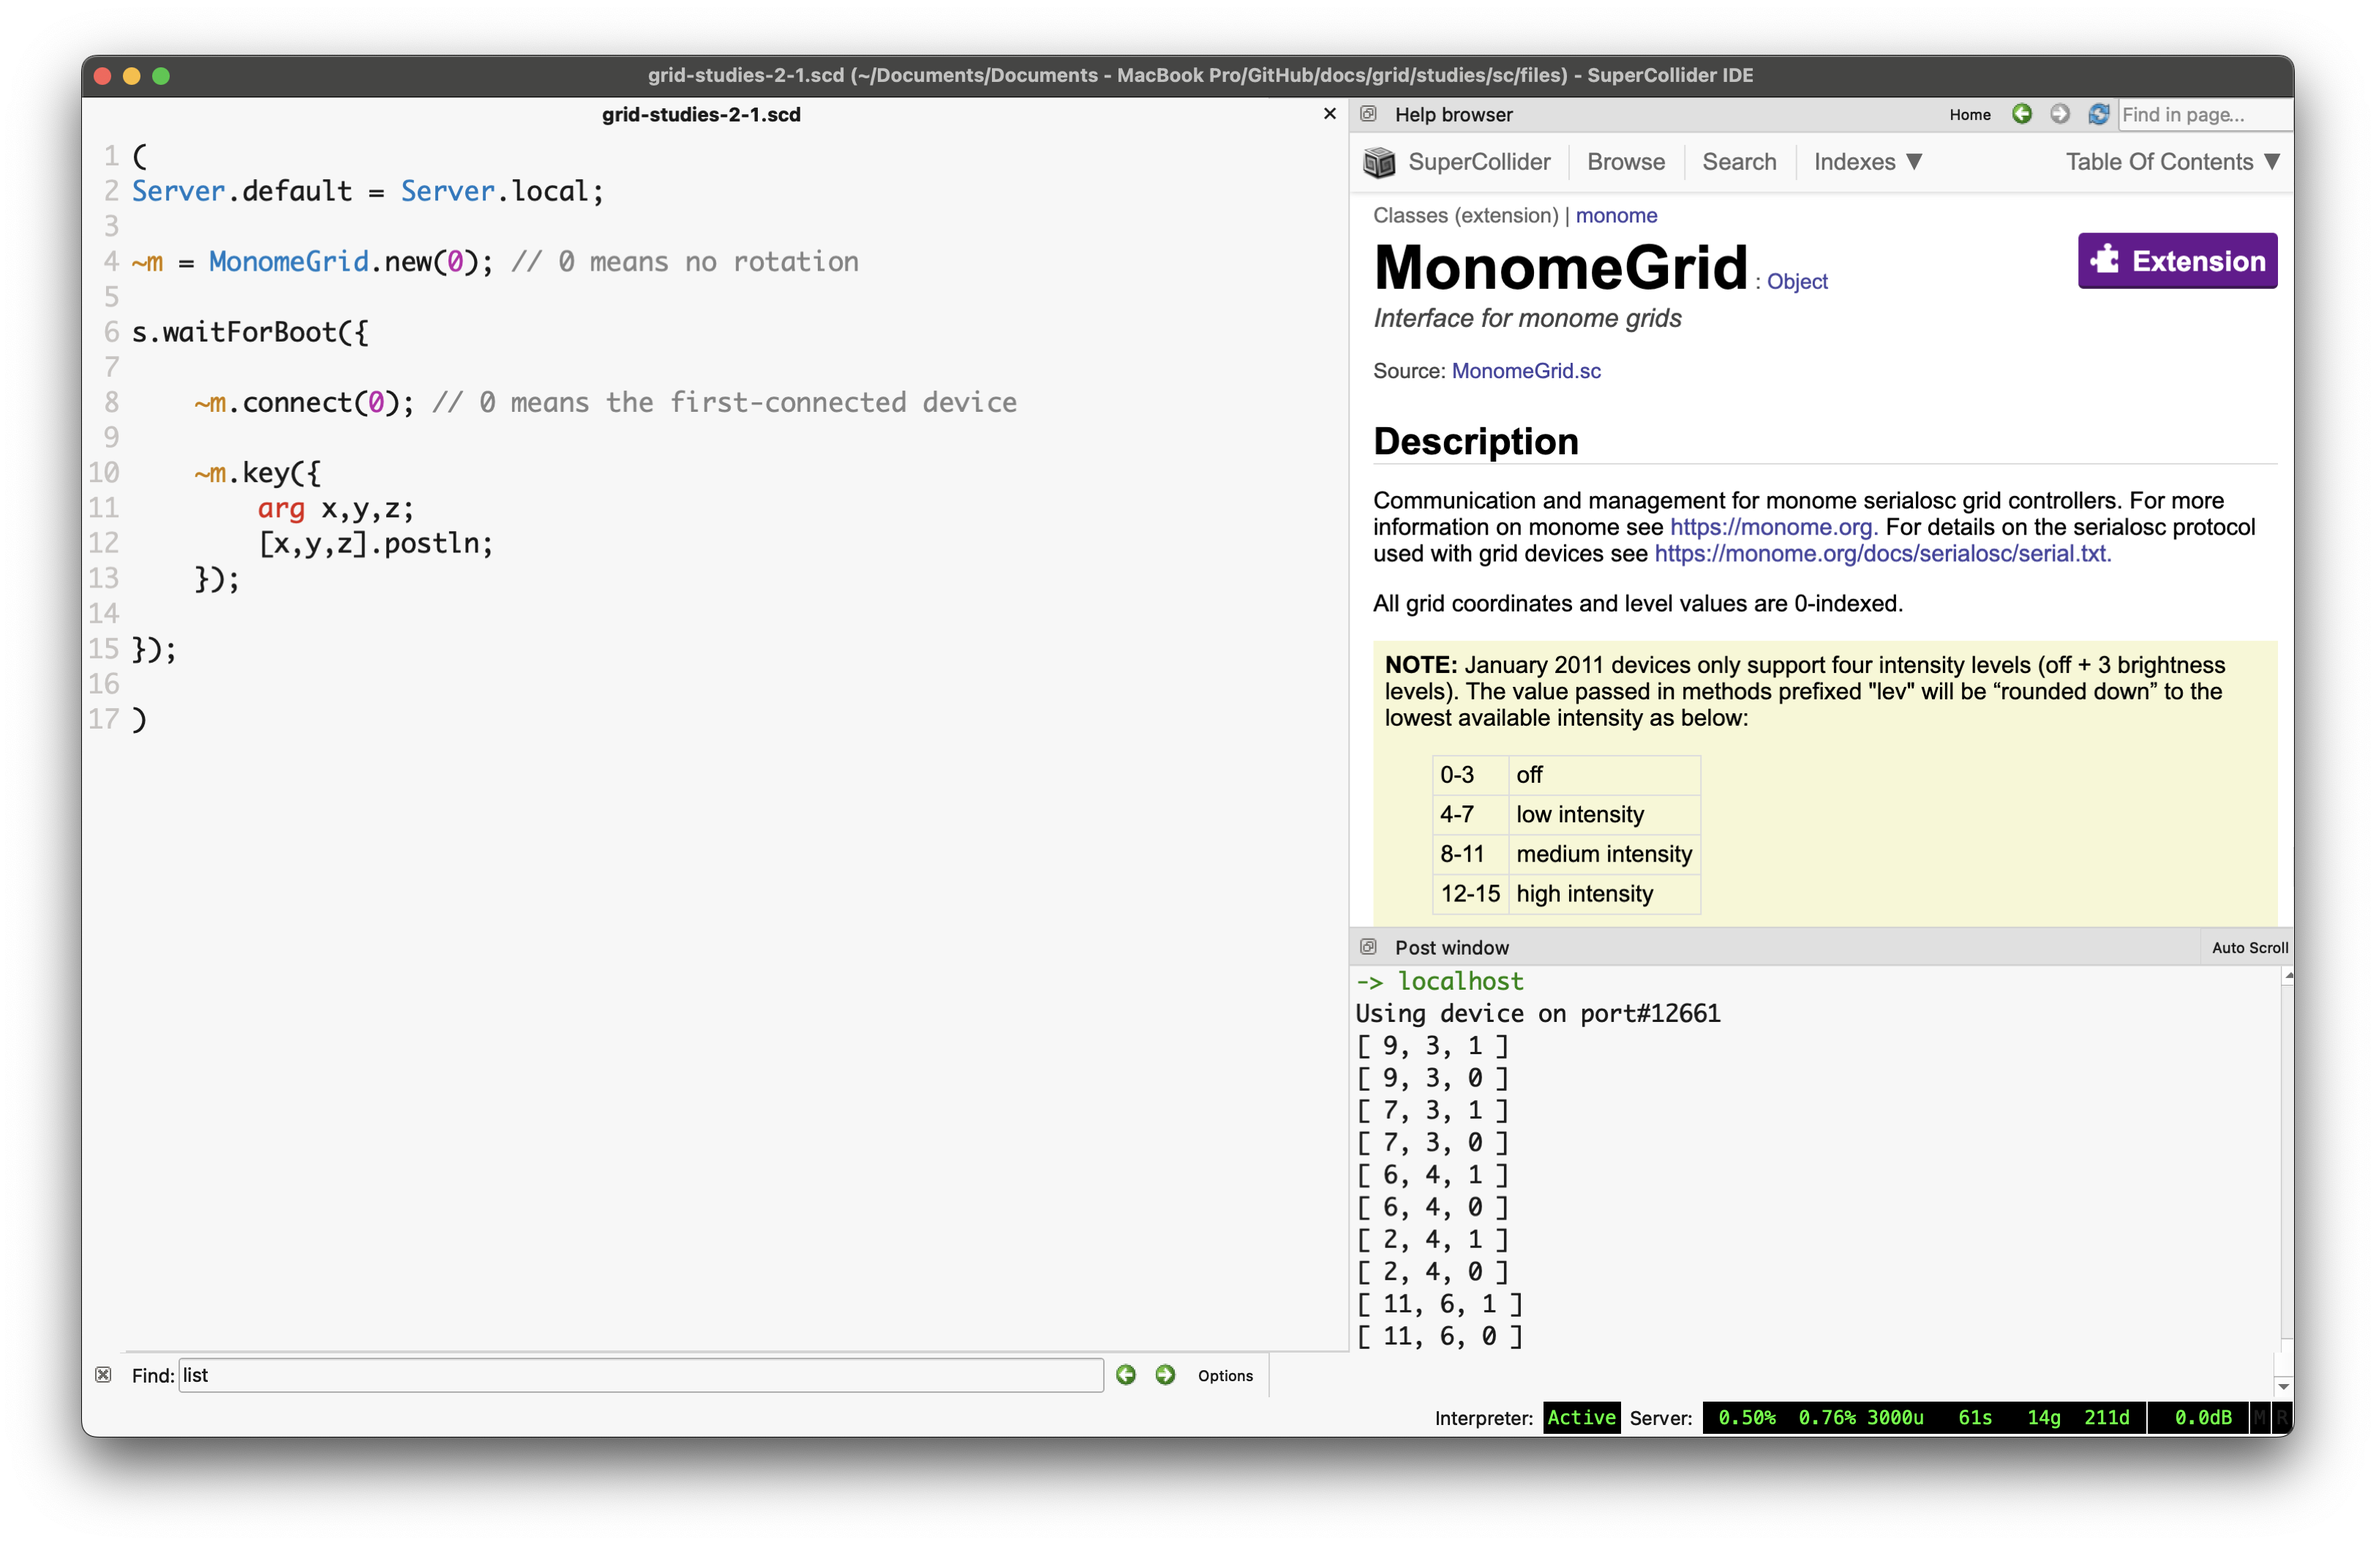
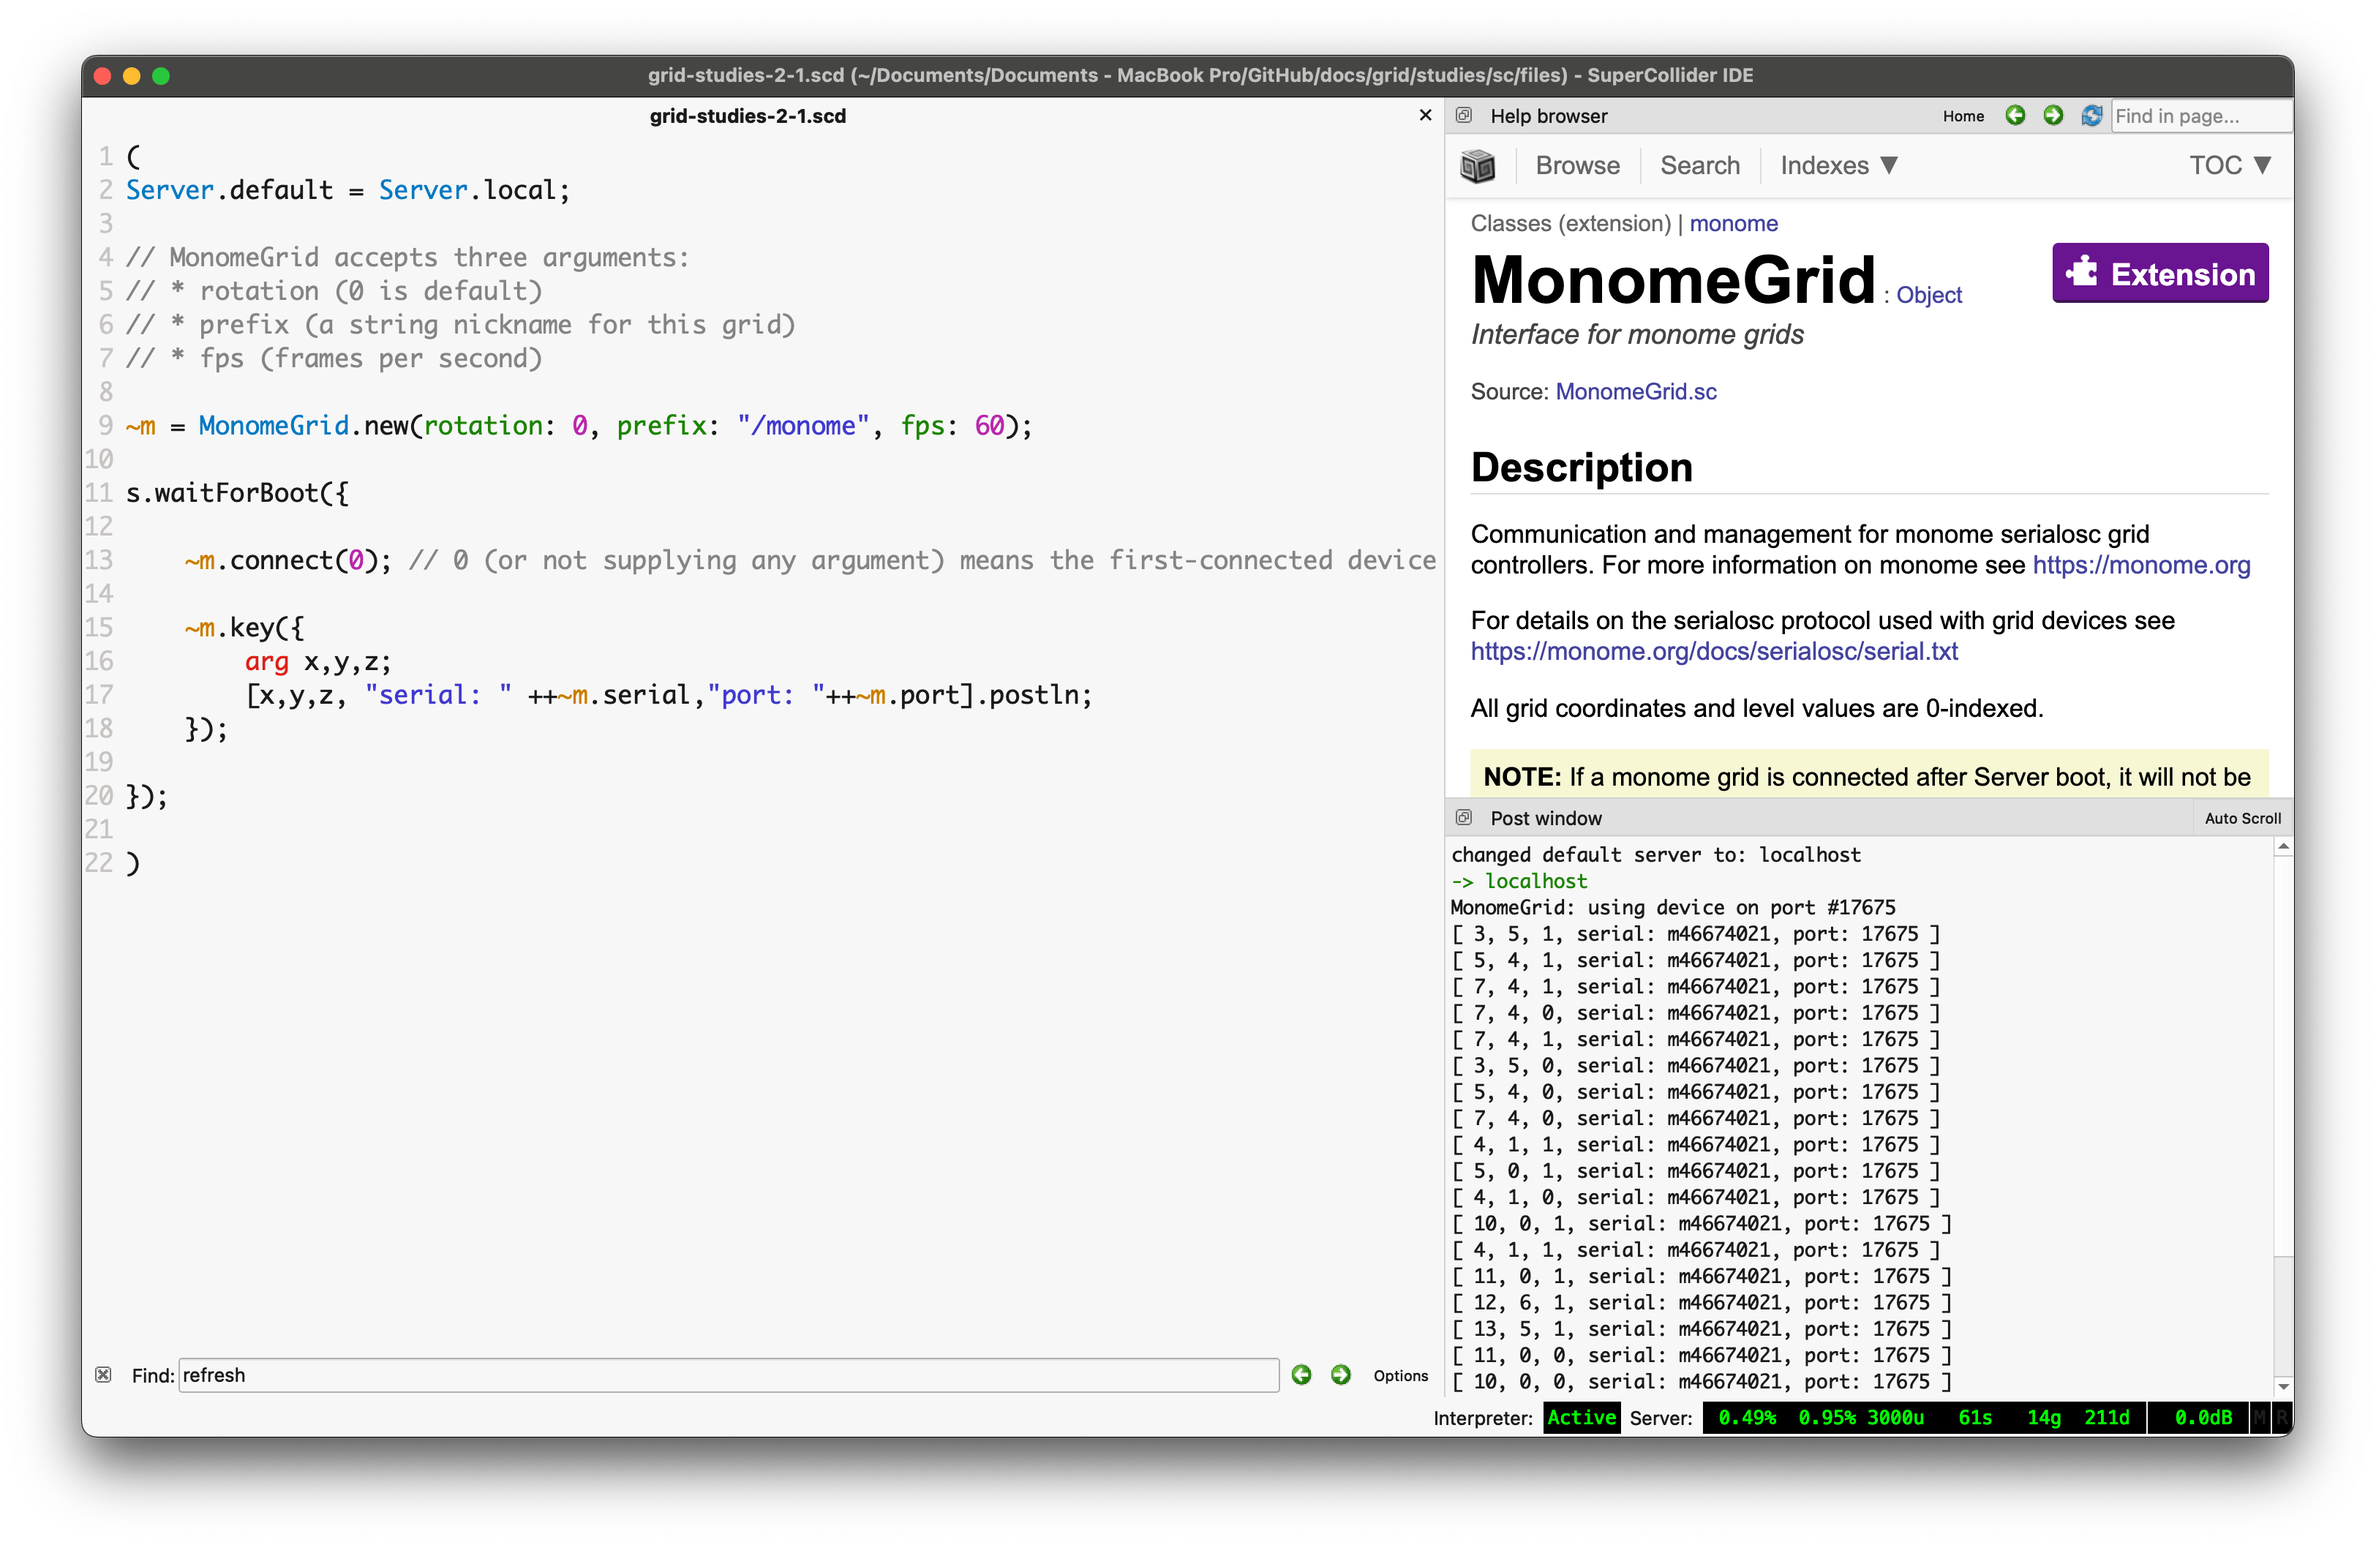
monomeSC 1.4 update

diff --git a/grid/studies/sc/index.md b/grid/studies/sc/index.md
@@ -54,15 +54,22 @@ To install the `monomeSC` SuperCollider library for monome grid devices:
 
 After setting up the library, connect your grid to your computer and boot SuperCollider.
 
-As SuperCollider boots up, it initializes the `MonomeGrid` class, which is how we'll get grids and SuperCollider to communicate. If the hardware isn't connected when the software boots, then `MonomeGrid` won't be able to index it for use. When you try to connect to your grid via SuperCollider, you'll see this message in the console:
+As SuperCollider boots up, it initializes the `MonomeGrid` class, which is how we get grids and SuperCollider to communicate. `MonomeGrid` indexes device connections as they occur, so if you try to script for a grid which hasn't yet been connected, SuperCollider will let you know in the Post Window:
 
 ```js
-!! no monome grid detected !!
-  connect a grid and execute MonomeGrid.initClass() ,
-  or Recompile Class Library
+WARNING: no monome grid detected at device slot <i>
 ```
 
-If you run into this message, or have any other trouble communicating with your grid from SuperCollider, quickly recompiling the Class Library should solve the issue:
+If you run into this message, simply connect a grid and you'll see it acknowledged in the Post Window:
+
+```js
+MonomeGrid device added to port: 17675
+MonomeGrid serial: m46674021
+MonomeGrid model: monome 128
+```
+You should now be able to re-run your script without issue!
+
+If you have any other troubles communicating with your grid from SuperCollider, quickly recompiling the Class Library should solve the issue:
 
 - macOS: <kbd>Command</kbd> + <kbd>Shift</kbd> + <kbd>L</kbd>
 - Windows / Linux: <kbd>Ctrl</kbd> + <kbd>Shift</kbd> + <kbd>L</kbd>
@@ -74,10 +81,12 @@ The `MonomeGrid` class facilitates easy communication with grids, modeled after 
 Let's create a variable, `~m`, to initialize the `MonomeGrid` class:
 
 ```js
-~m = MonomeGrid.new(0);
+~m = MonomeGrid.new(rotation: 0, prefix: "/monome", fps: 60);
 ```
 
-The `0` argument to the initializer is *grid rotation*. If none is provided, `MonomeGrid` will assume 0 rotation. Check out the `MonomeGrid` help file for additional rotation options!
+- The `rotation: 0` argument to the initializer is *grid rotation*. If none is provided, `MonomeGrid` will assume 0 rotation. Check out the `MonomeGrid` help file for additional rotation options!
+- The `prefix: "/monome"` argument is a nickname we can use to alias this script's grid, instead of relying on serial numbers. If none is provided, it will be assigned `"/monome"`.
+- The `fps: 60` argument specifies the *frames per second* which the grid will redraw. If none is provided, it will be assigned `60`.
 
 Now that the class is initialized to a variable, let's connect to a grid:
 
@@ -85,13 +94,13 @@ Now that the class is initialized to a variable, let's connect to a grid:
 ~m.connect(0);
 ```
 
-Here the first monome grid device found is attached. If no device number is provided, `MonomeGrid` will connect to the first gird device found.
+Here, our script connects to the first monome grid device that was physically attached to our device (SuperCollider Lists and Arrays are 0-indexed, so device `0` is the first one). If no device number is provided, `MonomeGrid` will connect to the first grid device it finds.
 
 Please note that there needs to be a slight delay in between initializing the new device and connecting to it. Waiting until the server starts provides the necessary time buffer:
 
 ```js
 (
-~m = MonomeGrid.new(0);
+~m = MonomeGrid.new(rotation: 0, prefix: "/monome", fps: 60);
 
 s.waitForBoot({
 	~m.connect(0);
@@ -100,6 +109,29 @@ s.waitForBoot({
 ```
 
 The library communicates with *serialosc* to discover attached devices using OSC. For a detailed description of how the mechanism and protocol work, see [the serialosc technical docs](/docs/serialosc/osc/) and [grid serial reference](/docs/serialosc/serial.txt) -- please note that neither of these documents are required for this study, but they _are_ good background for creating your own grid communication libraries.
+
+### query
+
+Once connected, our script's instance of `MonomeGrid` has some individual attributes we can query. In these examples, we'll use `~m` to illustrate:
+
+- `~m.serial`: this grid's serial number
+- `~m.rows`: this grid's row count (1-indexed)
+- `~m.cols`: this grid's column count (1-indexed)
+- `~m.dvcnum`: this grid's assigned device number (0-indexed)
+- `~m.prefix`: this grid's assigned prefix
+- `~m.port`: this grid's assigned OSC port
+- `~m.rotation`: this grid's assigned rotation
+- `~m.fps`: this grid's assigned refresh rate
+
+
+We can also query `MonomeGrid` directly:
+
+- `MonomeGrid.getConnectedDevices`: returns the serial numbers of each device that's been connected since the Server started
+- `MonomeGrid.getPortList`: returns the OSC ports of each device that's been connected since the Server started
+- `MonomeGrid.getPrefixes`: returns the assigned prefixes of each device that's been connected since the Server started
+
+We can also refresh the list of devices that have been connected since the Server started with `MonomeGrid.refreshConnections`.
+
 
 ## 2. basics {#basics}
 
@@ -123,15 +155,20 @@ In [grid-studies-2-1.scd](files/grid-studies-2-1.scd) we define the function to 
 (
 Server.default = Server.local;
 
-~m = MonomeGrid.new(0); // 0 means no rotation
+// MonomeGrid accepts three arguments:
+// * rotation (0 is default)
+// * prefix (a string nickname for this grid)
+// * fps (frames per second)
+
+~m = MonomeGrid.new(rotation: 0, prefix: "/monome", fps: 60);
 
 s.waitForBoot({
 
-	~m.connect(0); // 0 means the first-connected device
+	~m.connect(0); // 0 (or not supplying any argument) means the first-connected device
 
 	~m.key({
 		arg x,y,z;
-		[x,y,z].postln;
+		[x,y,z, "serial: " ++~m.serial,"port: "++~m.port].postln;
 	});
 
 });
@@ -167,11 +204,11 @@ Instead of printing the key output, we can show the key state on the grid quite 
 (
 Server.default = Server.local;
 
-~m = MonomeGrid.new(0);
+~m = MonomeGrid.new();
 
 s.waitForBoot({
 
-	~m.connect(0);
+	~m.connect();
 
 	~m.key({
 		arg x,y,z;
@@ -243,7 +280,7 @@ We already have a full bank of toggles set up. Let's shrink down the bank to exc
 
 ```js
 ~m.key({ arg x,y,z;
-	if((z == 1) && (y < (~m.rows-2)), {
+	if((z == 1) && (y < (rows-2)), {
 		var pos = x + (y * 16);
 		if(~step[pos] == 1,
 			{~step[pos] = 0},
@@ -260,15 +297,26 @@ That will get us started.
 
 *See [grid-studies-3-2.scd](files/grid-studies-3-2.scd) for this step.*
 
-To make our interface adaptive to any size grid (eg. we don't want to count to 16 steps on 64 grid with 8 columns), we can query the number of rows and columns with the `rows` and `cols` accessors.
+To make our interface adaptive to any size grid (eg. we don't want to count to 16 steps on 64 grid with 8 columns), we can query the number of rows and columns with the `rows` and `cols` accessors. We'll set that up as a callback for added devices with:
+
+```js
+MonomeGrid.setAddCallback({
+		arg serial, port, prefix;
+		("grid was added: " ++ serial ++ " " ++ port ++ " " ++ prefix).postln;
+		if( serial == MonomeGrid.getConnectedDevices[0], {
+			cols = ~m.cols;
+			rows = ~m.rows;
+		});
+	});
+```
 
 However, you might've noticed that these methods return 1-indexed numbers. Since most of our SuperCollider functions will be 0-indexed, let's make it easy on ourselves and introduce 0-indexed versions of our row and column totals at the top:
 
 ```js
 // 'cols' + 'rows' return as 1-indexed,
 // but we need 0-indexed for most of our functions!
-~lastCol = ~m.cols-1;
-~lastRow = ~m.rows-1;
+~lastCol = cols-1;
+~lastRow = rows-1;
 ```
 
 Now, let's get into fun stuff!  
